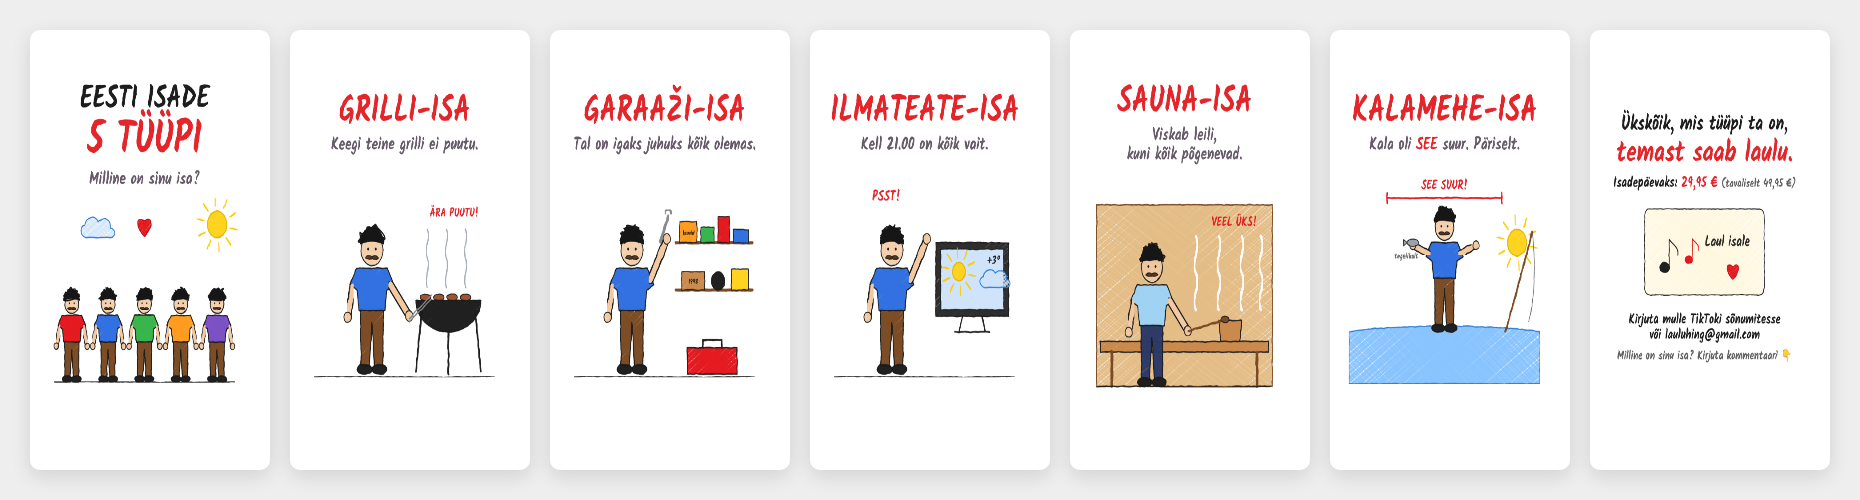
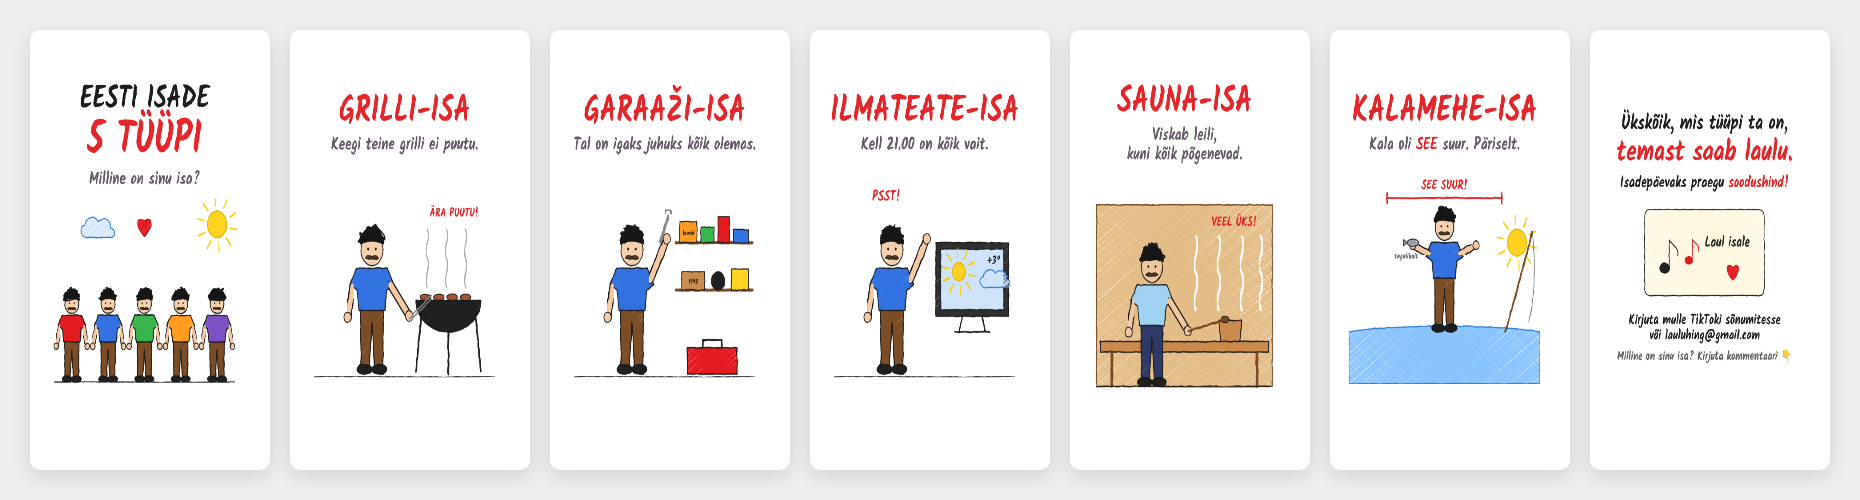
Drop prices from posts: say 'sale price now' and ask people to write
Claude-Session: https://claude.ai/code/session_01R5QAYetR4CsoLthXNGMUeu

diff --git a/isadepaev-kriit/src/slides.html b/isadepaev-kriit/src/slides.html
@@ -57,12 +57,10 @@
 <!-- 4: price -->
 <section class="slide">
   <div class="safe">
-    <div class="k t1 red">ISADEPÄEVA SOODUS</div>
-    <div class="price">
-      <span class="k old">49,95 €<svg id="strike" viewBox="0 0 200 100" preserveAspectRatio="none"></svg></span>
-      <span class="k new red">29,95 €</span>
-    </div>
-    <div class="sub" style="margin-top:6px">Isadepäev on 8. novembril.</div>
+    <div class="k t1">ISADEPÄEVAKS</div>
+    <div class="k" style="font-size:80px;margin-top:6px">on praegu</div>
+    <div class="k new red" style="margin-top:6px">SOODUSHIND!</div>
+    <div class="sub" style="margin-top:6px">Kirjuta mulle ja küsi lähemalt.</div>
     <svg class="art" id="a4" width="820" height="520" viewBox="0 0 1000 634"></svg>
   </div>
 </section>
@@ -124,8 +122,6 @@
 
   // 4: price with a scribbled-out old price and a gift
   (() => {
-    const st = $('strike');
-    line(st, 'M0 58 C60 52 140 56 200 46', '#e3151b', 5);
     const s = $('a4');
     ground(s, 610);
     gift(s, 330, 300, 340, 290, { box: '#2f6fe0', ribbon: '#e3151b' });

diff --git a/story-laul/src/slides.html b/story-laul/src/slides.html
@@ -33,10 +33,8 @@
     </div>
     <svg id="art" width="820" height="560" viewBox="0 0 1000 683"></svg>
     <div>
-      <div class="price">
-        <span class="k old">49,95 €<svg id="strike" viewBox="0 0 200 100" preserveAspectRatio="none"></svg></span>
-        <span class="k new red">29,95 €</span>
-      </div>
+      <div class="k" style="font-size:70px">Praegu on</div>
+      <div class="k red" style="font-size:130px">SOODUSHIND!</div>
       <div class="k" style="font-size:46px;margin-top:4px">Sünnipäevaks, pulmaks, aastapäevaks<br>või lihtsalt niisama.</div>
     </div>
     <div class="cta">
@@ -49,7 +47,6 @@
 </section>
 
 <script>
-  line(document.getElementById('strike'), 'M0 58 C60 52 140 56 200 46', '#e3151b', 5);
   line(document.getElementById('arrow'), 'M60 8 C52 40 66 66 60 96 M34 74 L60 100 L86 72', '#1a1a1a', 8);
 
   const s = document.getElementById('art');

diff --git a/isa-tyybid/src/slides.html b/isa-tyybid/src/slides.html
@@ -75,7 +75,7 @@
   <div class="safe">
     <div class="k" style="font-size:68px">Ükskõik, mis tüüpi ta on,</div>
     <div class="k red" style="font-size:96px;margin-top:6px">temast saab laulu.</div>
-    <div class="k" style="font-size:48px;margin-top:20px">Isadepäevaks: <span class="red">29,95 €</span> <span style="font-size:38px;color:#555">(tavaliselt 49,95 €)</span></div>
+    <div class="k" style="font-size:52px;margin-top:20px">Isadepäevaks praegu <span class="red">soodushind!</span></div>
     <svg class="art" id="a6" width="640" height="360" viewBox="0 0 1000 562" style="margin-top:20px"></svg>
     <div class="k" style="font-size:46px;margin-top:16px">Kirjuta mulle TikToki sõnumitesse<br>või lauluhing@gmail.com</div>
     <div class="k" style="font-size:40px;margin-top:22px;color:#555">Milline on sinu isa? Kirjuta kommentaari 👇</div>

diff --git a/isa-vaikselt/src/slides.html b/isa-vaikselt/src/slides.html
@@ -69,7 +69,7 @@
   <div class="safe">
     <div class="k line">Ütle seda sel isadepäeval</div>
     <div class="k big red" style="font-size:110px">LAULUS.</div>
-    <div class="k sub">Laul tema enda loost: <span class="red">29,95 €</span><br><span style="font-size:40px;color:#555">(tavaliselt 49,95 €)</span></div>
+    <div class="k sub">Laul tema enda loost.<br><span class="red">Praegu on soodushind!</span></div>
     <svg class="art" id="a6" width="700" height="330" viewBox="0 0 1000 471" style="margin-top:20px"></svg>
     <div class="k sub" style="font-size:46px;margin-top:18px">Kirjuta mulle TikToki sõnumitesse<br>või lauluhing@gmail.com</div>
   </div>

diff --git a/isadepaev-kriit/README.md b/isadepaev-kriit/README.md
@@ -2,19 +2,19 @@
 
 5 slaidi, 3:4 (1080×1440), tekst TikToki turvaalas. Allikas: `src/slides.html` (joonistused `tiktok-shared/crayon.js`, font `tiktok-shared/fonts/kalam.ttf`), eksport repo juurest: `node tiktok-shared/export.js isadepaev-kriit`. `safe-zone-check.png` näitab TikToki kasutajaliidese alasid sinisega, seda ei postitata.
 
-Kriidijoonistuse stiil (valge taust, värvipliiatsiga kritseldatud joonistused, vildikiri). Üks hind: 29,95 € (soodus, tavahind 49,95 €). Isadepäev on 8. novembril 2026.
+Kriidijoonistuse stiil (valge taust, värvipliiatsiga kritseldatud joonistused, vildikiri). Hinda ei näidata, ainult „praegu on soodushind“ ja üleskutse kirjutada. Isadepäev on 8. novembril 2026.
 
 | # | Pealkiri | Joonistus |
 |---|----------|-----------|
 | 1 | ISA ÜTLEB, ET TAL POLE MIDAGI VAJA. | Vuntsidega isa kehitab õlgu, küsimärgid, väike kink põrandal |
 | 2 | SIIS KINGI TALLE LAUL. Tema enda loost. | Isa kõrvaklappidega, noodid, südamed, päike |
 | 3 | SINA RÄÄGID, MINA KIRJUTAN. Kirjuta mulle paar mälestust oma isast. | Mälestuste leht („Näide“) → nooleleht |
-| 4 | ISADEPÄEVA SOODUS: ~~49,95 €~~ 29,95 €. Isadepäev on 8. novembril. | Kinkekarp sildiga „ISALE“ |
+| 4 | ISADEPÄEVAKS ON PRAEGU SOODUSHIND! Kirjuta mulle ja küsi lähemalt. | Kinkekarp sildiga „ISALE“ |
 | 5 | KIRJUTA MULLE: TikToki sõnumitesse või lauluhing@gmail.com | Telefon sõnumitega („Näide“) ja ümbrik |
 
 ## Postituse tekst
 
-> Isadepäevaks laul tema enda loost 🎶 Praegu 29,95 € (tavaliselt 49,95 €). Kirjuta mulle TikToki sõnumitesse või lauluhing@gmail.com
+> Isadepäevaks laul tema enda loost 🎶 Praegu on soodushind! Kirjuta mulle TikToki sõnumitesse või lauluhing@gmail.com
 > #isadepäev #kingiidee #lauluhing
 
 ## Avaldamise seaded (WoopSocial, TikTok)

diff --git a/CLAUDE.md b/CLAUDE.md
@@ -16,4 +16,4 @@ Omanik ootab kohe esimesest versioonist parimat võimalikku kvaliteeti, mitte li
 - Enne commitimist vaata iga slaid täissuuruses üle: tekst ei tohi kattuda logo ega teiste elementidega, ei tohi üle ääre minna ega jääda üksiksõnaks reale.
 - Postituse tekstis (caption) on alati hashtag `#lauluhing` (lisaks 1–2 teemakohast, nt `#isadepäev`).
 - Üleskutse (CTA): kirjuta TikToki sõnumitesse või e-postile lauluhing@gmail.com. Veebilehte (lauluhing.com) ei maini slaididel, postituse tekstis ega mujal. Näiteks: „Kirjuta mulle TikToki sõnumitesse või lauluhing@gmail.com“.
-- Hind: ainult üks hind, 29,95 € (soodushind, tavahind 49,95 €). Pakette, valikuid ega valmimisaegu ei näita. Väiksemad parandused on lubatud mainida. Ära mõtle välja kliendilugusid, arvustusi ega numbreid; illustreeriv näide märgi „Näide“.
+- Hind: hinda ei kirjuta (ei slaididele ega postituse teksti). Ütle ainult, et praegu on soodushind, ja kutsu kirjutama (nt „Praegu on soodushind! Kirjuta mulle…“). Pakette, valikuid ega valmimisaegu ei näita. Väiksemad parandused on lubatud mainida. Ära mõtle välja kliendilugusid, arvustusi ega numbreid; illustreeriv näide märgi „Näide“.

diff --git a/isa-tyybid/README.md b/isa-tyybid/README.md
@@ -12,7 +12,7 @@ Kriidijoonistuse stiil. Äratundmine ja sildistamine („milline on sinu isa?“
 | 4 | ILMATEATE-ISA | Kell 21.00 on kõik vait. | Teler ilmateatega, „PSST!“ |
 | 5 | SAUNA-ISA | Viskab leili, kuni kõik põgenevad. | Saunalava, kulp, aur, „VEEL ÜKS!“ |
 | 6 | KALAMEHE-ISA | Kala oli SEE suur. Päriselt. | Pisike kala käes, „SEE SUUR!“ |
-| 7 | Bränd | Ükskõik, mis tüüpi ta on, temast saab laulu. 29,95 € (tavaliselt 49,95 €). Kirjuta mulle TikToki sõnumitesse või lauluhing@gmail.com. Milline on sinu isa? Kirjuta kommentaari | Laulukaart |
+| 7 | Bränd | Ükskõik, mis tüüpi ta on, temast saab laulu. Isadepäevaks praegu soodushind! Kirjuta mulle TikToki sõnumitesse või lauluhing@gmail.com. Milline on sinu isa? Kirjuta kommentaari | Laulukaart |
 
 ## Postituse tekst
 

diff --git a/isa-vaikselt/README.md b/isa-vaikselt/README.md
@@ -11,7 +11,7 @@ Kriidijoonistuse stiil. Lapsepõlvemälestused, mida iga laps ära tunneb: posti
 | 3 | Ta jooksis rattaga kõrval, kuni sa ise said. | Laps rattal, isa hoiab sadulast |
 | 4 | Ta ütles, et kõht on täis, et sina saaksid viimase tüki. | Laud viimase koogitükiga, „Võta sina, ma olen täis!“ |
 | 5 | Ta mäletab neid kõiki. Kas sina oled talle aitäh öelnud? | Raamitud lapse joonistus „MINA JA ISSI“ |
-| 6 | Ütle seda sel isadepäeval LAULUS. Laul tema enda loost: 29,95 € (tavaliselt 49,95 €). Kirjuta mulle TikToki sõnumitesse või lauluhing@gmail.com | Laulukaart nootidega |
+| 6 | Ütle seda sel isadepäeval LAULUS. Laul tema enda loost. Praegu on soodushind! Kirjuta mulle TikToki sõnumitesse või lauluhing@gmail.com | Laulukaart nootidega |
 
 ## Postituse tekst
 

diff --git a/story-laul/README.md b/story-laul/README.md
@@ -4,6 +4,6 @@
 
 Story katab ülevalt u 250 px (edenemisriba, nimi) ja alt u 260 px (vastamise kast), seega kogu sisu on vahemikus y 270–1650. Nool näitab vastamise kasti poole.
 
-Sisu: LAUL KINGIKS, tema enda loost · ~~49,95 €~~ 29,95 € · Sünnipäevaks, pulmaks, aastapäevaks või lihtsalt niisama · Vasta sellele storyle ja räägi, kellele laul läheb · või kirjuta lauluhing@gmail.com.
+Sisu: LAUL KINGIKS, tema enda loost · Praegu on SOODUSHIND! · Sünnipäevaks, pulmaks, aastapäevaks või lihtsalt niisama · Vasta sellele storyle ja räägi, kellele laul läheb · või kirjuta lauluhing@gmail.com.
 
 Storysse lisamisel võib panna ka äpi enda „Küsimused“ või „Sõnum“ kleebise noole kohale.
